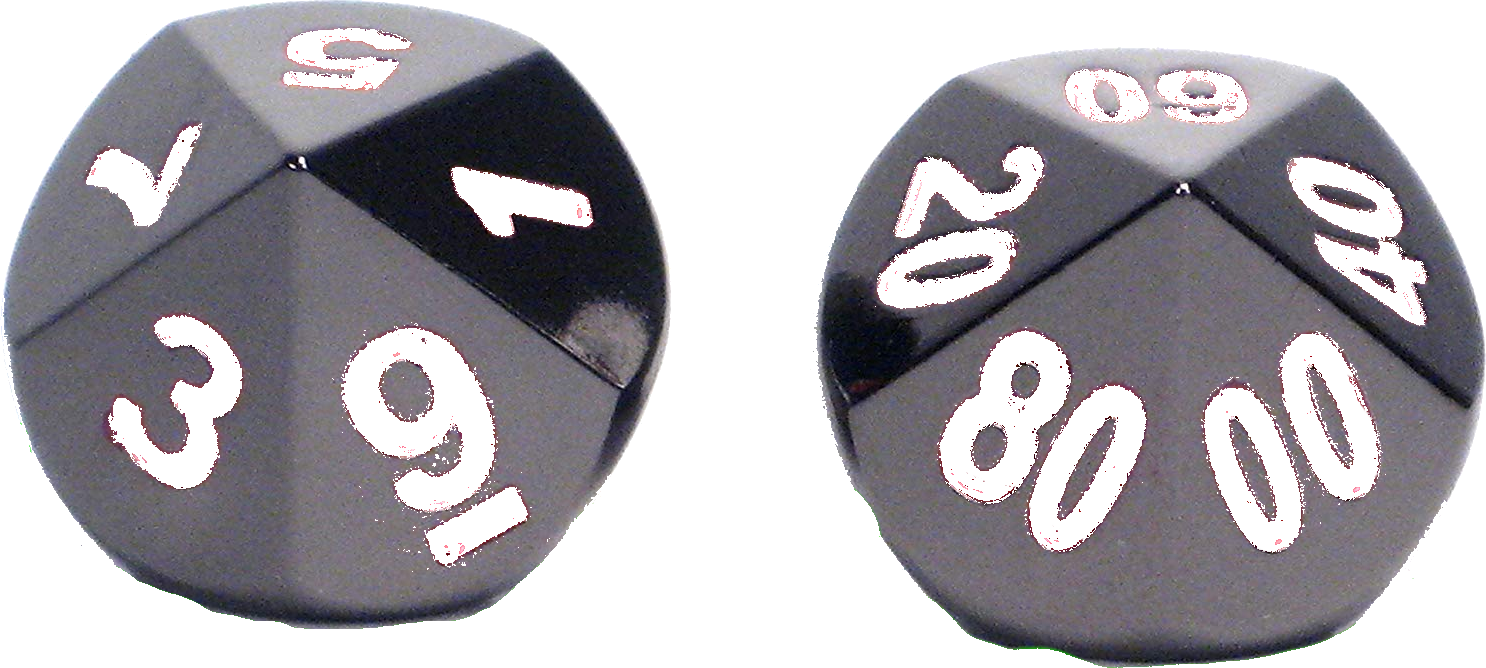
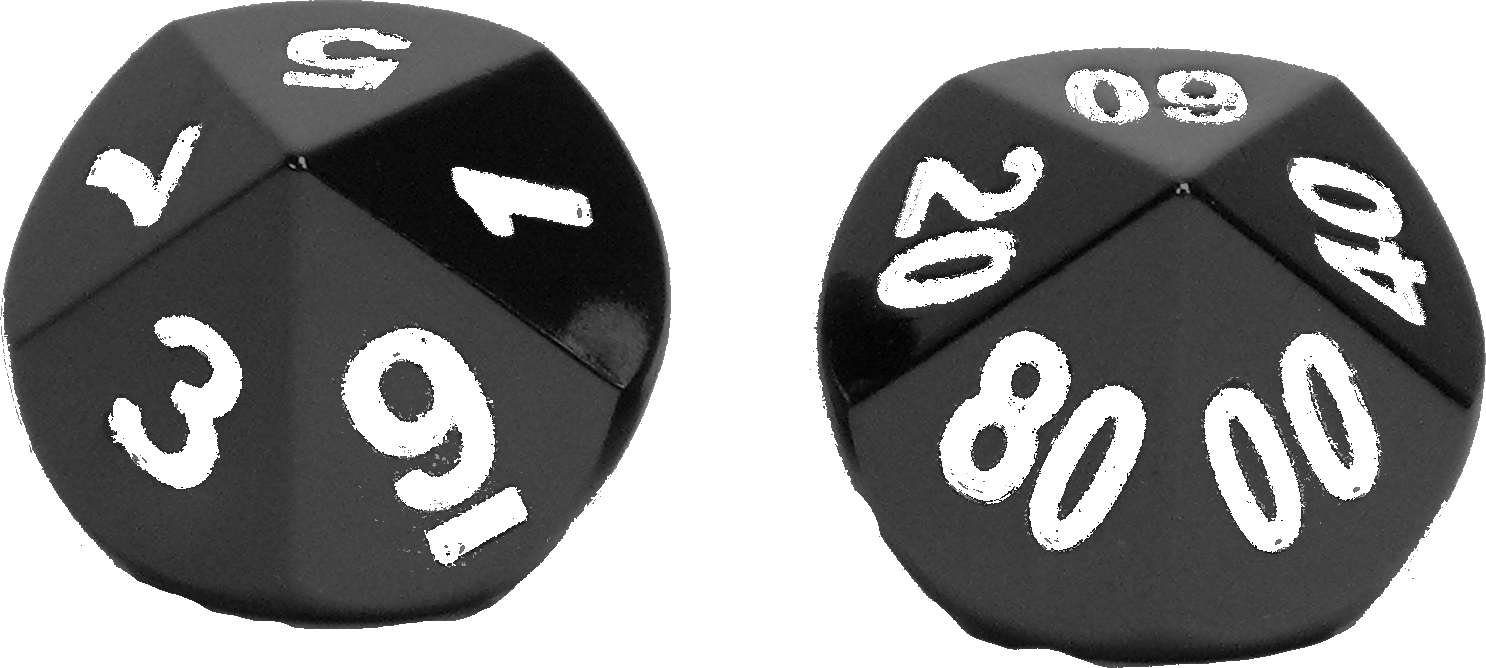
l'ANIMATION FONCTIONNE ENFIN

diff --git a/public/js/tealDice/dice.js b/public/js/tealDice/dice.js
@@ -270,17 +270,17 @@
     }
 
     this.material_options = {
-        specular: 0x172022,
+        specular: 0x690e0e,
         color: 0xf0f0f0,
         shininess: 40,
         shading: THREE.FlatShading,
     };
-    this.label_color = '#aaaaaa';
+    this.label_color = '#ffea49';
     this.dice_color = '#202020';
     this.ambient_light_color = 0xf0f5fb;
     this.spot_light_color = 0xefdfd5;
-    this.selector_back_colors = { color: 0x404040, shininess: 0, emissive: 0x858787 };
-    this.desk_color = 0xdfdfdf;
+    this.selector_back_colors = { color: 0x562a0c, shininess: 0, emissive: 0 };
+    this.desk_color = 0x562a0c;
     this.use_shadows = true;
 
     this.known_types = ['d4', 'd6', 'd8', 'd10', 'd12', 'd20', 'd100'];
@@ -395,7 +395,7 @@
         container.appendChild(this.renderer.domElement);
         this.renderer.shadowMap.enabled = true;
         this.renderer.shadowMap.type = THREE.PCFShadowMap;
-        this.renderer.setClearColor(0xffffff, 1);
+        this.renderer.setClearColor(0x228B22, 1);
 
         this.reinit(container, dimentions);
 
@@ -445,8 +445,15 @@
     }
 
     this.dice_box.prototype.reinit = function(container, dimentions) {
-        this.cw = container.clientWidth / 2;
-        this.ch = container.clientHeight / 2;
+
+        // this.cw = container.clientWidth / 2;
+        // this.ch = container.clientHeight / 2;
+
+
+        this.cw = $('#informations_page').width() / 2;
+        this.ch = container.clientHeight * 2;
+
+
         if (dimentions) {
             this.w = dimentions.w;
             this.h = dimentions.h;
@@ -455,22 +462,30 @@
             this.w = this.cw;
             this.h = this.ch;
         }
-        this.aspect = Math.min(this.cw / this.w, this.ch / this.h);
-        that.scale = Math.sqrt(this.w * this.w + this.h * this.h) / 13;
 
-        this.renderer.setSize(this.cw * 2, this.ch * 2);
+
+        //C'est le zoom apparemment
+        this.aspect = Math.min(this.cw / this.w, this.ch / this.h) ;
+
+        that.scale = Math.sqrt(this.cw * this.cw + this.ch * this.ch) / 9;
+        // that.scale = 50;
+
+        this.renderer.setSize(this.cw * 1, this.ch * 1);
+
+
 
         this.wh = this.ch / this.aspect / Math.tan(10 * Math.PI / 180);
+
         if (this.camera) this.scene.remove(this.camera);
         this.camera = new THREE.PerspectiveCamera(20, this.cw / this.ch, 1, this.wh * 1.3);
-        this.camera.position.z = this.wh;
+        this.camera.position.z = this.wh * 1;
 
         var mw = Math.max(this.w, this.h);
         if (this.light) this.scene.remove(this.light);
-        this.light = new THREE.SpotLight(that.spot_light_color, 2.0);
+        this.light = new THREE.SpotLight(that.spot_light_color, 0.8);
         this.light.position.set(-mw / 2, mw / 2, mw * 2);
         this.light.target.position.set(0, 0, 0);
-        this.light.distance = mw * 5;
+        this.light.distance = mw * 8;
         this.light.castShadow = true;
         this.light.shadowCameraNear = mw / 10;
         this.light.shadowCameraFar = mw * 5;
@@ -771,6 +786,7 @@
         }
         vector.x /= dist; vector.y /= dist;
         var notation = notation_getter.call(box);
+
         if (notation.set.length == 0) return;
         var vectors = box.generate_vectors(notation, vector, boost);
         box.rolling = true;
@@ -797,6 +813,7 @@
             var time_int = (new Date()).getTime() - box.mouse_time;
             if (time_int > 2000) time_int = 2000;
             var boost = Math.sqrt((2500 - time_int) / 2500) * dist * 2;
+            boost =  boost * 5;
             prepare_rnd(function() {
                 throw_dices(box, vector, boost, dist, notation_getter, before_roll, after_roll);
             });

diff --git a/public/js/tealDice/main.js b/public/js/tealDice/main.js
@@ -4,8 +4,6 @@ function dice_initialize(container) {
     $t.remove($t.id('loading_text'));
 
     var canvas = $t.id('canvas');
-    canvas.style.width = window.innerWidth - 1 + 'px';
-    canvas.style.height = window.innerHeight - 1 + 'px';
     var label = $t.id('label');
     var set = $t.id('set');
     var selector_div = $t.id('selector_div');
@@ -14,12 +12,23 @@ function dice_initialize(container) {
 
     $t.dice.use_true_random = false;
 
-    function on_set_change(ev) { set.style.width = set.value.length + 3 + 'ex'; }
+    function on_set_change(ev){
+        set.style.width = set.value.length + 3 + 'ex';
+    }
+
     $t.bind(set, 'keyup', on_set_change);
-    $t.bind(set, 'mousedown', function(ev) { ev.stopPropagation(); });
-    $t.bind(set, 'mouseup', function(ev) { ev.stopPropagation(); });
-    $t.bind(set, 'focus', function(ev) { $t.set(container, { class: '' }); });
-    $t.bind(set, 'blur', function(ev) { $t.set(container, { class: 'noselect' }); });
+    $t.bind(set, 'mousedown', function(ev){
+        ev.stopPropagation();
+    });
+    $t.bind(set, 'mouseup', function(ev){
+        ev.stopPropagation();
+    });
+    $t.bind(set, 'focus', function(ev){
+        $t.set(container, { class: '' });
+    });
+    $t.bind(set, 'blur', function(ev){
+        $t.set(container, { class: 'noselect' });
+    });
 
     $t.bind($t.id('clear'), ['mouseup', 'touchend'], function(ev) {
         ev.stopPropagation();
@@ -42,24 +51,27 @@ function dice_initialize(container) {
         $t.dice.label_color = '#202020';
     }
 
-    var box = new $t.dice.dice_box(canvas, { w: 500, h: 300 });
+    var box = new $t.dice.dice_box(canvas);
     box.animate_selector = false;
 
     $t.bind(window, 'resize', function() {
         canvas.style.width = window.innerWidth - 1 + 'px';
         canvas.style.height = window.innerHeight - 1 + 'px';
-        box.reinit(canvas, { w: 500, h: 300 });
+        box.reinit(canvas, { w: 830, h: 417 });
     });
 
     function show_selector() {
-        info_div.style.display = 'none';
-        selector_div.style.display = 'inline-block';
+        //info_div.style.display = 'none';
+        //selector_div.style.display = 'inline-block';
+
         box.draw_selector();
     }
 
     function before_roll(vectors, notation, callback) {
-        info_div.style.display = 'none';
-        selector_div.style.display = 'none';
+        //info_div.style.display = 'none';
+        //selector_div.style.display = 'none';
+
+
         // do here rpc call or whatever to get your own result of throw.
         // then callback with array of your result, example:
         // callback([2, 2, 2, 2]); // for 4d6 where all dice values are 2.
@@ -79,8 +91,8 @@ function dice_initialize(container) {
         }
         if (result.length > 1) res += ' = ' + 
                 (result.reduce(function(s, a) { return s + a; }) + notation.constant);
-        label.innerHTML = res;
-        info_div.style.display = 'inline-block';
+        console.dir('Result: ' + res);
+        //info_div.style.display = 'inline-block';
     }
 
     box.bind_mouse(container, notation_getter, before_roll, after_roll);
@@ -88,11 +100,8 @@ function dice_initialize(container) {
 
     $t.bind(container, ['mouseup', 'touchend'], function(ev) {
         ev.stopPropagation();
-        if (selector_div.style.display == 'none') {
-            if (!box.rolling) show_selector();
             box.rolling = false;
-            return;
-        }
+
         var name = box.search_dice_by_mouse(ev);
         if (name != undefined) {
             var notation = $t.dice.parse_notation(set.value);

diff --git a/view/dice.html b/view/dice.html
@@ -11,11 +11,22 @@
 
 <div id="containerGeneral">
 
-    <div class="flexDiv" id="inventaire">
+    <div class="flexDiv" class="sideMenu" id="inventaire">
         <fieldset>
             <legend><h1>Inventaire</h1></legend>
             <div id="inventory">
+                <input type="hidden" id="set" value="0">
+                <div id='inventoryd3' class='inventoryDice'></div>
+                <div id='inventoryd4' class='inventoryDice'></div>
+                <div id='inventoryd6' class='inventoryDice'></div>
+                <div id='inventoryd10' class='inventoryDice'></div>
+                <div id='inventoryd12' class='inventoryDice'></div>
+                <div id='inventoryd20' class='inventoryDice'></div>
+                <div id='inventoryd100' class='inventoryDice'></div>
             </div>
+            <br />
+            <button id="throw" class="boutonDice"><i class="fas fa-dice"></i></button>
+            <button id="clear" class="boutonDice" onclick="clearInventory()"><i class="fas fa-times"></i></button>
         </fieldset>
     </div>
 
@@ -54,8 +65,8 @@
                     <h2>d100</h2>
                 </div>
             </div>
-            <canvas id="diceThrow">
-            </canvas>
+            <div id="canvas" class="diceThrow">
+            </div>
         </fieldset>
     </div>
 
@@ -73,3 +84,14 @@
 </script>
 
 <script type="application/x-javascript" src="js/dice.js"></script>
+
+
+<script src="js/tealDice/lib/three.min.js"></script>
+<script src="js/tealDice/lib/cannon.min.js"></script>
+
+<script type="text/javascript" src="js/tealDice/teal.js"></script>
+<script type="text/javascript" src="js/tealDice/dice.js"></script>
+<script type="text/javascript" src="js/tealDice/main.js"></script>
+<script type="text/javascript" defer="defer">
+    dice_initialize(document.body);
+</script>

diff --git a/public/js/dice.js b/public/js/dice.js
@@ -7,8 +7,34 @@ $('.diceIcon').each(function(){
 
 
 function addDice(id){
-    console.dir(id);
     var inventaire = $('#inventory');
+    if(!($('input[name="counter_'+id+'"]').length)){
+        let row = $('#inventory'+id);
+        row.append("<table class='tableDiceInventory'>" +
+            "<tr>" +
+                "<td>" +
+                    "<img class='imageIcon diceIcon' id='Dice"+id+"' src='../img/"+id+".png' style='width: 100%'>" +
+                "</td>" +
+                "<td>" +
+                    "<input type='number' name='counter_"+id+"' min='0' max='9' value='1' style='width: 100%; line-height: 28px'>" +
+                "</td>" +
+            "</tr>" +
+            "</table>")
+        // row.append("<img class='imageIcon diceIcon' id='Dice"+id+"' src='../img/"+id+".png' style='margin-bottom: 20px'>");
+        // row.append("<input type='number' name='counter_"+id+"' disabled>");
+    }
+    else{
+        document.getElementsByName('counter_'+id)[0].stepUp(1);
+    }
+    $('#set').val($('input[name="counter_'+id+'"]').val() + id);
 
-    inventaire.append("<img class='imageIcon diceIcon' id='"+id+"' src='../img/"+id+".png' style='margin-bottom: 20px'>");
+}
+
+
+
+
+var inventaireBase = $('#inventory').html();
+function clearInventory(){
+    console.dir(inventaireBase);
+    $('#inventory').html(inventaireBase);
 }

diff --git a/public/css/dice.css b/public/css/dice.css
@@ -1,6 +1,8 @@
 
 
 
+
+
 #containerGeneral{
     display: flex;
     align-items: baseline;
@@ -23,6 +25,40 @@
     flex-direction: column;
     position: relative;
 }
+.inventoryDice{
+    display: flex;
+    flex-direction: row;
+}
+.tableDiceInventory{
+    border: none;
+}
+input[name^="counter"]{
+    font-size: 28px;
+    background: transparent;
+    border: none;
+    text-align: center;
+}
+
+
+.boutonDice{
+    width: 48%;
+    height: 48px;
+    font-size: 28px;
+    border: none;
+    cursor: pointer;
+}
+#throw{
+    color: cornflowerblue;
+    font-size: 28px;
+    background: rgba(255, 249, 242, 0.36);
+}
+#clear{
+    color: #ed2b00;
+    font-size: 28px;
+    background: rgba(255, 249, 242, 0.36);
+}
+
+
 
 .containerglobal{
     height: 100%;
@@ -47,6 +83,8 @@ fieldset{
     flex-wrap: wrap;
     justify-content: space-around;
     align-items: baseline;
+    padding-bottom: 6%;
+    border-bottom: 4px solid black;
 }
 
 .flexDiv, .flexDiv legend, .flexDiv fieldset, .flexDiv legend h2{
@@ -65,6 +103,11 @@ fieldset{
     width: 60%;
 }
 
+
+.diceThrow, .diceThrow > canvas{
+    width: 99.5% !important;
+    border: 2px solid chocolate;
+}
 
 #stickyButton{
     float: left;

diff --git a/public/css/style.css b/public/css/style.css
@@ -89,16 +89,10 @@ fieldset{
 
 table, th, td{
 	text-align: center;
-	border: 1px solid black;
 	border-collapse: collapse;
-}
-table{
-	width: 45%;
-	margin-top: 6px;
 }
 th, td{
 	padding: 5px;
-	border: 1px solid black;
 	border-collapse: collapse;
 }
 th{
